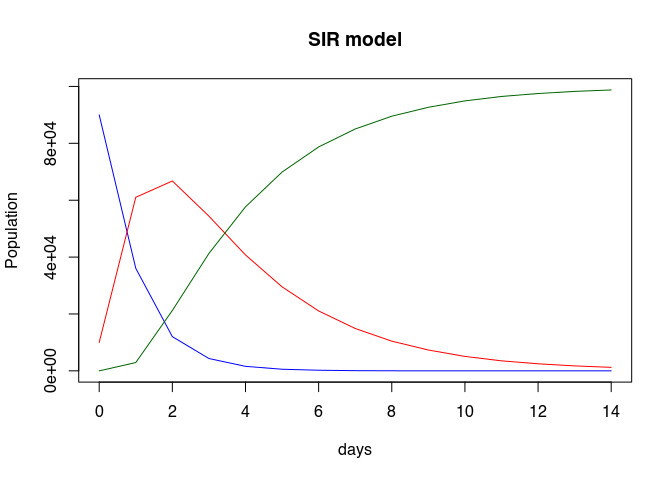
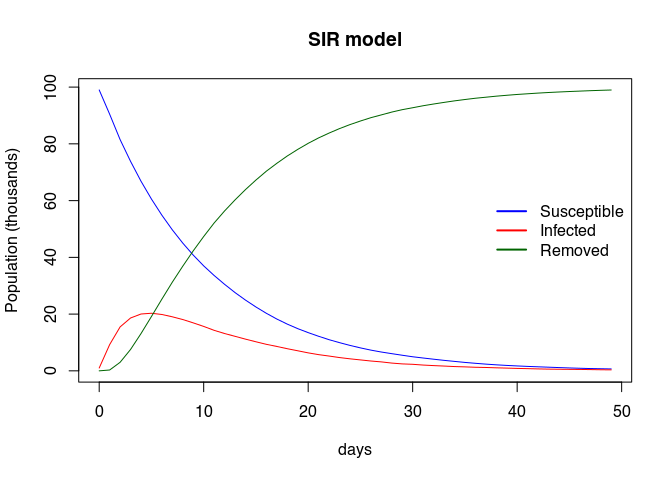
Removing unmerged and updating README

diff --git a/src/cpp11.cpp b/src/cpp11.cpp
@@ -34,17 +34,10 @@ extern "C" SEXP _epiworldR_get_reproductive_number_cpp(SEXP model, SEXP model_cl
   END_CPP11
 }
 // model_seir.cpp
-<<<<<<< HEAD
-SEXP ModelSEIR(std::string name, double prevalence, double infectiousness, double incubation_days, double recovery);
-extern "C" SEXP _epiworldR_ModelSEIR(SEXP name, SEXP prevalence, SEXP infectiousness, SEXP incubation_days, SEXP recovery) {
-  BEGIN_CPP11
-    return cpp11::as_sexp(ModelSEIR(cpp11::as_cpp<cpp11::decay_t<std::string>>(name), cpp11::as_cpp<cpp11::decay_t<double>>(prevalence), cpp11::as_cpp<cpp11::decay_t<double>>(infectiousness), cpp11::as_cpp<cpp11::decay_t<double>>(incubation_days), cpp11::as_cpp<cpp11::decay_t<double>>(recovery)));
-=======
 SEXP ModelSEIR_cpp(std::string name, double prevalence, double infectiousness, double incubation_days, double recovery);
 extern "C" SEXP _epiworldR_ModelSEIR_cpp(SEXP name, SEXP prevalence, SEXP infectiousness, SEXP incubation_days, SEXP recovery) {
   BEGIN_CPP11
     return cpp11::as_sexp(ModelSEIR_cpp(cpp11::as_cpp<cpp11::decay_t<std::string>>(name), cpp11::as_cpp<cpp11::decay_t<double>>(prevalence), cpp11::as_cpp<cpp11::decay_t<double>>(infectiousness), cpp11::as_cpp<cpp11::decay_t<double>>(incubation_days), cpp11::as_cpp<cpp11::decay_t<double>>(recovery)));
->>>>>>> c4b483bb37e81678bcb5a10721bf8633e1d05332
   END_CPP11
 }
 // model_seir.cpp
@@ -76,17 +69,10 @@ extern "C" SEXP _epiworldR_run_seir(SEXP m) {
   END_CPP11
 }
 // model_seirconn.cpp
-<<<<<<< HEAD
-SEXP ModelSEIRCONN(std::string name, double prevalence, double reproductive_number, double prob_transmission, double incubation_days, double prob_recovery);
-extern "C" SEXP _epiworldR_ModelSEIRCONN(SEXP name, SEXP prevalence, SEXP reproductive_number, SEXP prob_transmission, SEXP incubation_days, SEXP prob_recovery) {
-  BEGIN_CPP11
-    return cpp11::as_sexp(ModelSEIRCONN(cpp11::as_cpp<cpp11::decay_t<std::string>>(name), cpp11::as_cpp<cpp11::decay_t<double>>(prevalence), cpp11::as_cpp<cpp11::decay_t<double>>(reproductive_number), cpp11::as_cpp<cpp11::decay_t<double>>(prob_transmission), cpp11::as_cpp<cpp11::decay_t<double>>(incubation_days), cpp11::as_cpp<cpp11::decay_t<double>>(prob_recovery)));
-=======
 SEXP ModelSEIRCONN_cpp(std::string name, unsigned int n, double prevalence, double reproductive_number, double prob_transmission, double incubation_days, double prob_recovery);
 extern "C" SEXP _epiworldR_ModelSEIRCONN_cpp(SEXP name, SEXP n, SEXP prevalence, SEXP reproductive_number, SEXP prob_transmission, SEXP incubation_days, SEXP prob_recovery) {
   BEGIN_CPP11
     return cpp11::as_sexp(ModelSEIRCONN_cpp(cpp11::as_cpp<cpp11::decay_t<std::string>>(name), cpp11::as_cpp<cpp11::decay_t<unsigned int>>(n), cpp11::as_cpp<cpp11::decay_t<double>>(prevalence), cpp11::as_cpp<cpp11::decay_t<double>>(reproductive_number), cpp11::as_cpp<cpp11::decay_t<double>>(prob_transmission), cpp11::as_cpp<cpp11::decay_t<double>>(incubation_days), cpp11::as_cpp<cpp11::decay_t<double>>(prob_recovery)));
->>>>>>> c4b483bb37e81678bcb5a10721bf8633e1d05332
   END_CPP11
 }
 // model_seirconn.cpp
@@ -104,16 +90,6 @@ extern "C" SEXP _epiworldR_print_seirconn(SEXP m) {
   END_CPP11
 }
 // model_seirconn.cpp
-<<<<<<< HEAD
-int agents_smallworld_seirconn(SEXP m, unsigned int n, unsigned int k, bool d, double p);
-extern "C" SEXP _epiworldR_agents_smallworld_seirconn(SEXP m, SEXP n, SEXP k, SEXP d, SEXP p) {
-  BEGIN_CPP11
-    return cpp11::as_sexp(agents_smallworld_seirconn(cpp11::as_cpp<cpp11::decay_t<SEXP>>(m), cpp11::as_cpp<cpp11::decay_t<unsigned int>>(n), cpp11::as_cpp<cpp11::decay_t<unsigned int>>(k), cpp11::as_cpp<cpp11::decay_t<bool>>(d), cpp11::as_cpp<cpp11::decay_t<double>>(p)));
-  END_CPP11
-}
-// model_seirconn.cpp
-=======
->>>>>>> c4b483bb37e81678bcb5a10721bf8633e1d05332
 int run_seirconn(SEXP m);
 extern "C" SEXP _epiworldR_run_seirconn(SEXP m) {
   BEGIN_CPP11
@@ -156,17 +132,10 @@ extern "C" SEXP _epiworldR_run_sir(SEXP m) {
   END_CPP11
 }
 // model_sirconn.cpp
-<<<<<<< HEAD
-SEXP ModelSIRCONN(std::string name, double prevalence, double reproductive_number, double prob_transmission, double prob_recovery);
-extern "C" SEXP _epiworldR_ModelSIRCONN(SEXP name, SEXP prevalence, SEXP reproductive_number, SEXP prob_transmission, SEXP prob_recovery) {
-  BEGIN_CPP11
-    return cpp11::as_sexp(ModelSIRCONN(cpp11::as_cpp<cpp11::decay_t<std::string>>(name), cpp11::as_cpp<cpp11::decay_t<double>>(prevalence), cpp11::as_cpp<cpp11::decay_t<double>>(reproductive_number), cpp11::as_cpp<cpp11::decay_t<double>>(prob_transmission), cpp11::as_cpp<cpp11::decay_t<double>>(prob_recovery)));
-=======
 SEXP ModelSIRCONN_cpp(std::string name, unsigned int n, double prevalence, double reproductive_number, double prob_transmission, double prob_recovery);
 extern "C" SEXP _epiworldR_ModelSIRCONN_cpp(SEXP name, SEXP n, SEXP prevalence, SEXP reproductive_number, SEXP prob_transmission, SEXP prob_recovery) {
   BEGIN_CPP11
     return cpp11::as_sexp(ModelSIRCONN_cpp(cpp11::as_cpp<cpp11::decay_t<std::string>>(name), cpp11::as_cpp<cpp11::decay_t<unsigned int>>(n), cpp11::as_cpp<cpp11::decay_t<double>>(prevalence), cpp11::as_cpp<cpp11::decay_t<double>>(reproductive_number), cpp11::as_cpp<cpp11::decay_t<double>>(prob_transmission), cpp11::as_cpp<cpp11::decay_t<double>>(prob_recovery)));
->>>>>>> c4b483bb37e81678bcb5a10721bf8633e1d05332
   END_CPP11
 }
 // model_sirconn.cpp
@@ -184,16 +153,6 @@ extern "C" SEXP _epiworldR_print_sirconn(SEXP m) {
   END_CPP11
 }
 // model_sirconn.cpp
-<<<<<<< HEAD
-int agents_smallworld_sirconn(SEXP m, unsigned int n, unsigned int k, bool d, double p);
-extern "C" SEXP _epiworldR_agents_smallworld_sirconn(SEXP m, SEXP n, SEXP k, SEXP d, SEXP p) {
-  BEGIN_CPP11
-    return cpp11::as_sexp(agents_smallworld_sirconn(cpp11::as_cpp<cpp11::decay_t<SEXP>>(m), cpp11::as_cpp<cpp11::decay_t<unsigned int>>(n), cpp11::as_cpp<cpp11::decay_t<unsigned int>>(k), cpp11::as_cpp<cpp11::decay_t<bool>>(d), cpp11::as_cpp<cpp11::decay_t<double>>(p)));
-  END_CPP11
-}
-// model_sirconn.cpp
-=======
->>>>>>> c4b483bb37e81678bcb5a10721bf8633e1d05332
 int run_sirconn(SEXP m);
 extern "C" SEXP _epiworldR_run_sirconn(SEXP m) {
   BEGIN_CPP11
@@ -235,47 +194,76 @@ extern "C" SEXP _epiworldR_run_sis(SEXP m) {
     return cpp11::as_sexp(run_sis(cpp11::as_cpp<cpp11::decay_t<SEXP>>(m)));
   END_CPP11
 }
+// model_surv.cpp
+SEXP ModelSURV(std::string name, double prevalence, double efficacy_vax, double latent_period, double prob_symptoms, double prop_vaccinated, double prop_vax_redux_transm, double infect_period, double prop_vax_redux_infect, double surveillance_prob, double prob_transmission, double prob_death, double prob_noreinfect);
+extern "C" SEXP _epiworldR_ModelSURV(SEXP name, SEXP prevalence, SEXP efficacy_vax, SEXP latent_period, SEXP prob_symptoms, SEXP prop_vaccinated, SEXP prop_vax_redux_transm, SEXP infect_period, SEXP prop_vax_redux_infect, SEXP surveillance_prob, SEXP prob_transmission, SEXP prob_death, SEXP prob_noreinfect) {
+  BEGIN_CPP11
+    return cpp11::as_sexp(ModelSURV(cpp11::as_cpp<cpp11::decay_t<std::string>>(name), cpp11::as_cpp<cpp11::decay_t<double>>(prevalence), cpp11::as_cpp<cpp11::decay_t<double>>(efficacy_vax), cpp11::as_cpp<cpp11::decay_t<double>>(latent_period), cpp11::as_cpp<cpp11::decay_t<double>>(prob_symptoms), cpp11::as_cpp<cpp11::decay_t<double>>(prop_vaccinated), cpp11::as_cpp<cpp11::decay_t<double>>(prop_vax_redux_transm), cpp11::as_cpp<cpp11::decay_t<double>>(infect_period), cpp11::as_cpp<cpp11::decay_t<double>>(prop_vax_redux_infect), cpp11::as_cpp<cpp11::decay_t<double>>(surveillance_prob), cpp11::as_cpp<cpp11::decay_t<double>>(prob_transmission), cpp11::as_cpp<cpp11::decay_t<double>>(prob_death), cpp11::as_cpp<cpp11::decay_t<double>>(prob_noreinfect)));
+  END_CPP11
+}
+// model_surv.cpp
+int init_surv(SEXP m, int days, int seed);
+extern "C" SEXP _epiworldR_init_surv(SEXP m, SEXP days, SEXP seed) {
+  BEGIN_CPP11
+    return cpp11::as_sexp(init_surv(cpp11::as_cpp<cpp11::decay_t<SEXP>>(m), cpp11::as_cpp<cpp11::decay_t<int>>(days), cpp11::as_cpp<cpp11::decay_t<int>>(seed)));
+  END_CPP11
+}
+// model_surv.cpp
+int print_surv(SEXP m);
+extern "C" SEXP _epiworldR_print_surv(SEXP m) {
+  BEGIN_CPP11
+    return cpp11::as_sexp(print_surv(cpp11::as_cpp<cpp11::decay_t<SEXP>>(m)));
+  END_CPP11
+}
+// model_surv.cpp
+int agents_smallworld_surv(SEXP m, unsigned int n, unsigned int k, bool d, double p);
+extern "C" SEXP _epiworldR_agents_smallworld_surv(SEXP m, SEXP n, SEXP k, SEXP d, SEXP p) {
+  BEGIN_CPP11
+    return cpp11::as_sexp(agents_smallworld_surv(cpp11::as_cpp<cpp11::decay_t<SEXP>>(m), cpp11::as_cpp<cpp11::decay_t<unsigned int>>(n), cpp11::as_cpp<cpp11::decay_t<unsigned int>>(k), cpp11::as_cpp<cpp11::decay_t<bool>>(d), cpp11::as_cpp<cpp11::decay_t<double>>(p)));
+  END_CPP11
+}
+// model_surv.cpp
+int run_surv(SEXP m);
+extern "C" SEXP _epiworldR_run_surv(SEXP m) {
+  BEGIN_CPP11
+    return cpp11::as_sexp(run_surv(cpp11::as_cpp<cpp11::decay_t<SEXP>>(m)));
+  END_CPP11
+}
 
 extern "C" {
 static const R_CallMethodDef CallEntries[] = {
-<<<<<<< HEAD
-    {"_epiworldR_ModelSEIR",                      (DL_FUNC) &_epiworldR_ModelSEIR,                      5},
-    {"_epiworldR_ModelSEIRCONN",                  (DL_FUNC) &_epiworldR_ModelSEIRCONN,                  6},
-    {"_epiworldR_ModelSIRCONN",                   (DL_FUNC) &_epiworldR_ModelSIRCONN,                   5},
-    {"_epiworldR_ModelSIR_cpp",                   (DL_FUNC) &_epiworldR_ModelSIR_cpp,                   4},
-    {"_epiworldR_ModelSIS",                       (DL_FUNC) &_epiworldR_ModelSIS,                       4},
-    {"_epiworldR_agents_smallworld_seir",         (DL_FUNC) &_epiworldR_agents_smallworld_seir,         5},
-    {"_epiworldR_agents_smallworld_seirconn",     (DL_FUNC) &_epiworldR_agents_smallworld_seirconn,     5},
-=======
-    {"_epiworldR_ModelSEIRCONN_cpp",              (DL_FUNC) &_epiworldR_ModelSEIRCONN_cpp,              7},
-    {"_epiworldR_ModelSEIR_cpp",                  (DL_FUNC) &_epiworldR_ModelSEIR_cpp,                  5},
-    {"_epiworldR_ModelSIRCONN_cpp",               (DL_FUNC) &_epiworldR_ModelSIRCONN_cpp,               6},
-    {"_epiworldR_ModelSIR_cpp",                   (DL_FUNC) &_epiworldR_ModelSIR_cpp,                   4},
-    {"_epiworldR_ModelSIS_cpp",                   (DL_FUNC) &_epiworldR_ModelSIS_cpp,                   4},
-    {"_epiworldR_agents_smallworld_seir",         (DL_FUNC) &_epiworldR_agents_smallworld_seir,         5},
->>>>>>> c4b483bb37e81678bcb5a10721bf8633e1d05332
-    {"_epiworldR_agents_smallworld_sir",          (DL_FUNC) &_epiworldR_agents_smallworld_sir,          5},
-    {"_epiworldR_agents_smallworld_sirconn",      (DL_FUNC) &_epiworldR_agents_smallworld_sirconn,      5},
-    {"_epiworldR_agents_smallworld_sis",          (DL_FUNC) &_epiworldR_agents_smallworld_sis,          5},
-    {"_epiworldR_get_hist_total_cpp",             (DL_FUNC) &_epiworldR_get_hist_total_cpp,             2},
-    {"_epiworldR_get_reproductive_number_cpp",    (DL_FUNC) &_epiworldR_get_reproductive_number_cpp,    2},
-    {"_epiworldR_get_status_cpp",                 (DL_FUNC) &_epiworldR_get_status_cpp,                 2},
-    {"_epiworldR_get_transition_probability_cpp", (DL_FUNC) &_epiworldR_get_transition_probability_cpp, 2},
-    {"_epiworldR_init_seir",                      (DL_FUNC) &_epiworldR_init_seir,                      3},
-    {"_epiworldR_init_seirconn",                  (DL_FUNC) &_epiworldR_init_seirconn,                  3},
-    {"_epiworldR_init_sir",                       (DL_FUNC) &_epiworldR_init_sir,                       3},
-    {"_epiworldR_init_sirconn",                   (DL_FUNC) &_epiworldR_init_sirconn,                   3},
-    {"_epiworldR_init_sis",                       (DL_FUNC) &_epiworldR_init_sis,                       3},
-    {"_epiworldR_print_seir",                     (DL_FUNC) &_epiworldR_print_seir,                     1},
-    {"_epiworldR_print_seirconn",                 (DL_FUNC) &_epiworldR_print_seirconn,                 1},
-    {"_epiworldR_print_sir",                      (DL_FUNC) &_epiworldR_print_sir,                      1},
-    {"_epiworldR_print_sirconn",                  (DL_FUNC) &_epiworldR_print_sirconn,                  1},
-    {"_epiworldR_print_sis",                      (DL_FUNC) &_epiworldR_print_sis,                      1},
-    {"_epiworldR_run_seir",                       (DL_FUNC) &_epiworldR_run_seir,                       1},
-    {"_epiworldR_run_seirconn",                   (DL_FUNC) &_epiworldR_run_seirconn,                   1},
-    {"_epiworldR_run_sir",                        (DL_FUNC) &_epiworldR_run_sir,                        1},
-    {"_epiworldR_run_sirconn",                    (DL_FUNC) &_epiworldR_run_sirconn,                    1},
-    {"_epiworldR_run_sis",                        (DL_FUNC) &_epiworldR_run_sis,                        1},
+    {"_epiworldR_ModelSEIRCONN_cpp",              (DL_FUNC) &_epiworldR_ModelSEIRCONN_cpp,               7},
+    {"_epiworldR_ModelSEIR_cpp",                  (DL_FUNC) &_epiworldR_ModelSEIR_cpp,                   5},
+    {"_epiworldR_ModelSIRCONN_cpp",               (DL_FUNC) &_epiworldR_ModelSIRCONN_cpp,                6},
+    {"_epiworldR_ModelSIR_cpp",                   (DL_FUNC) &_epiworldR_ModelSIR_cpp,                    4},
+    {"_epiworldR_ModelSIS_cpp",                   (DL_FUNC) &_epiworldR_ModelSIS_cpp,                    4},
+    {"_epiworldR_ModelSURV",                      (DL_FUNC) &_epiworldR_ModelSURV,                      13},
+    {"_epiworldR_agents_smallworld_seir",         (DL_FUNC) &_epiworldR_agents_smallworld_seir,          5},
+    {"_epiworldR_agents_smallworld_sir",          (DL_FUNC) &_epiworldR_agents_smallworld_sir,           5},
+    {"_epiworldR_agents_smallworld_sis",          (DL_FUNC) &_epiworldR_agents_smallworld_sis,           5},
+    {"_epiworldR_agents_smallworld_surv",         (DL_FUNC) &_epiworldR_agents_smallworld_surv,          5},
+    {"_epiworldR_get_hist_total_cpp",             (DL_FUNC) &_epiworldR_get_hist_total_cpp,              2},
+    {"_epiworldR_get_reproductive_number_cpp",    (DL_FUNC) &_epiworldR_get_reproductive_number_cpp,     2},
+    {"_epiworldR_get_status_cpp",                 (DL_FUNC) &_epiworldR_get_status_cpp,                  2},
+    {"_epiworldR_get_transition_probability_cpp", (DL_FUNC) &_epiworldR_get_transition_probability_cpp,  2},
+    {"_epiworldR_init_seir",                      (DL_FUNC) &_epiworldR_init_seir,                       3},
+    {"_epiworldR_init_seirconn",                  (DL_FUNC) &_epiworldR_init_seirconn,                   3},
+    {"_epiworldR_init_sir",                       (DL_FUNC) &_epiworldR_init_sir,                        3},
+    {"_epiworldR_init_sirconn",                   (DL_FUNC) &_epiworldR_init_sirconn,                    3},
+    {"_epiworldR_init_sis",                       (DL_FUNC) &_epiworldR_init_sis,                        3},
+    {"_epiworldR_init_surv",                      (DL_FUNC) &_epiworldR_init_surv,                       3},
+    {"_epiworldR_print_seir",                     (DL_FUNC) &_epiworldR_print_seir,                      1},
+    {"_epiworldR_print_seirconn",                 (DL_FUNC) &_epiworldR_print_seirconn,                  1},
+    {"_epiworldR_print_sir",                      (DL_FUNC) &_epiworldR_print_sir,                       1},
+    {"_epiworldR_print_sirconn",                  (DL_FUNC) &_epiworldR_print_sirconn,                   1},
+    {"_epiworldR_print_sis",                      (DL_FUNC) &_epiworldR_print_sis,                       1},
+    {"_epiworldR_print_surv",                     (DL_FUNC) &_epiworldR_print_surv,                      1},
+    {"_epiworldR_run_seir",                       (DL_FUNC) &_epiworldR_run_seir,                        1},
+    {"_epiworldR_run_seirconn",                   (DL_FUNC) &_epiworldR_run_seirconn,                    1},
+    {"_epiworldR_run_sir",                        (DL_FUNC) &_epiworldR_run_sir,                         1},
+    {"_epiworldR_run_sirconn",                    (DL_FUNC) &_epiworldR_run_sirconn,                     1},
+    {"_epiworldR_run_sis",                        (DL_FUNC) &_epiworldR_run_sis,                         1},
+    {"_epiworldR_run_surv",                       (DL_FUNC) &_epiworldR_run_surv,                        1},
     {NULL, NULL, 0}
 };
 }

diff --git a/src/model_seirconn.cpp b/src/model_seirconn.cpp
@@ -13,14 +13,9 @@ using namespace cpp11;
   cpp11::external_pointer<epiworld::epimodels::ModelSEIRCONN<>> (a)
 
 [[cpp11::register]]
-<<<<<<< HEAD
-SEXP ModelSEIRCONN(
-  std::string name,
-=======
 SEXP ModelSEIRCONN_cpp(
   std::string name,
   unsigned int n,
->>>>>>> c4b483bb37e81678bcb5a10721bf8633e1d05332
   double prevalence,
   double reproductive_number,
   double prob_transmission,
@@ -32,10 +27,7 @@ SEXP ModelSEIRCONN_cpp(
   WrapSEIRCONN(ptr)(
     new epiworld::epimodels::ModelSEIRCONN<>(
       name,
-<<<<<<< HEAD
-=======
       n,
->>>>>>> c4b483bb37e81678bcb5a10721bf8633e1d05332
       prevalence,
       reproductive_number,
       prob_transmission,
@@ -66,26 +58,6 @@ int print_seirconn(SEXP m) {
   return 0;
   
 }
-<<<<<<< HEAD
-  
-[[cpp11::register]]
-int agents_smallworld_seirconn(
-    SEXP m,
-    unsigned int n = 1000,
-    unsigned int k = 5,
-    bool d = false,
-    double p = .01
-
-  ) {
-  
-  WrapSEIRCONN(ptr)(m);
-  ptr->agents_smallworld(n, k, d, p);
-  
-  return 0;
-  
-}
-=======
->>>>>>> c4b483bb37e81678bcb5a10721bf8633e1d05332
 
 [[cpp11::register]]
 int run_seirconn(SEXP m) {

diff --git a/src/model_sirconn.cpp b/src/model_sirconn.cpp
@@ -13,14 +13,10 @@ using namespace cpp11;
   cpp11::external_pointer<epiworld::epimodels::ModelSIRCONN<>> (a)
 
 [[cpp11::register]]
-<<<<<<< HEAD
-SEXP ModelSIRCONN(
-  std::string name,
-=======
 SEXP ModelSIRCONN_cpp(
   std::string name,
   unsigned int n,
->>>>>>> c4b483bb37e81678bcb5a10721bf8633e1d05332
+
   double prevalence,
   double reproductive_number,
   double prob_transmission, 
@@ -31,10 +27,7 @@ SEXP ModelSIRCONN_cpp(
   WrapSIRCONN(ptr)(
     new epiworld::epimodels::ModelSIRCONN<>(
       name,
-<<<<<<< HEAD
-=======
       n,
->>>>>>> c4b483bb37e81678bcb5a10721bf8633e1d05332
       prevalence,
       reproductive_number,
       prob_transmission,
@@ -64,26 +57,6 @@ int print_sirconn(SEXP m) {
   return 0;
   
 }
-<<<<<<< HEAD
-  
-[[cpp11::register]]
-int agents_smallworld_sirconn(
-    SEXP m,
-    unsigned int n = 1000,
-    unsigned int k = 5,
-    bool d = false,
-    double p = .01
-
-  ) {
-  
-  WrapSIRCONN(ptr)(m);
-  ptr->agents_smallworld(n, k, d, p);
-  
-  return 0;
-  
-}
-=======
->>>>>>> c4b483bb37e81678bcb5a10721bf8633e1d05332
 
 [[cpp11::register]]
 int run_sirconn(SEXP m) {

diff --git a/README.md b/README.md
@@ -30,7 +30,7 @@ library(epiworldR)
 # Creating a SIR model
 sir <- ModelSIR(
   name = "COVID-19",
-  prevalence = .1,
+  prevalence = .01,
   infectiousness = .9,
   recovery = .3
   )
@@ -65,12 +65,12 @@ sir
 #> Number of entitites : 0
 #> Days (duration)     : 100 (of 100)
 #> Number of variants  : 1
-#> Last run elapsed t  : 356.00ms
-#> Last run speed      : 28.04 million agents x day / second
+#> Last run elapsed t  : 1.00s
+#> Last run speed      : 7.92 million agents x day / second
 #> Rewiring            : off
 #> 
 #> Virus(es):
-#>  - COVID-19 (baseline prevalence: 10.00%)
+#>  - COVID-19 (baseline prevalence: 1.00%)
 #> 
 #> Tool(s):
 #>  (none)
@@ -80,13 +80,13 @@ sir
 #>  - Prob. of Recovery : 0.3000
 #> 
 #> Distribution of the population at time 100:
-#>  - (0) Susceptible :  90000 -> 0
-#>  - (1) Infected    :  10000 -> 0
+#>  - (0) Susceptible :  99000 -> 0
+#>  - (1) Infected    :   1000 -> 0
 #>  - (2) Recovered   :      0 -> 100000
 #> 
 #> Transition Probabilities:
-#>  - Susceptible  0.28  0.71  0.00
-#>  - Infected     0.00  0.69  0.31
+#>  - Susceptible  0.87  0.13  0.00
+#>  - Infected     0.00  0.70  0.30
 #>  - Recovered    0.00  0.00  1.00
 ```
 
@@ -94,13 +94,14 @@ Visualizing the outputs
 
 ``` r
 x <- get_hist_total(sir)
-x <- x[x$dates < 15,]
+x$counts <- x$counts/1000
+x <- x[x$dates < 50,]
 
 with(
   x[x$status == "Susceptible",],
   plot(
     x = dates, y = counts, type = "l", col = "blue", ylim = range(x$counts),
-    ylab = "Population", xlab = "days", main = "SIR model")
+    ylab = "Population (thousands)", xlab = "days", main = "SIR model")
   )
 
 with(
@@ -111,6 +112,15 @@ with(
 with(
   x[x$status == "Recovered",],
   lines(x = dates, y = counts, col = "darkgreen")
+  )
+
+legend(
+  "right",
+  legend = c("Susceptible", "Infected", "Removed"),
+  col    = c("blue", "red", "darkgreen"),
+  lty    = 1,
+  lwd    = 2,
+  bty    = "n"
   )
 ```
 
